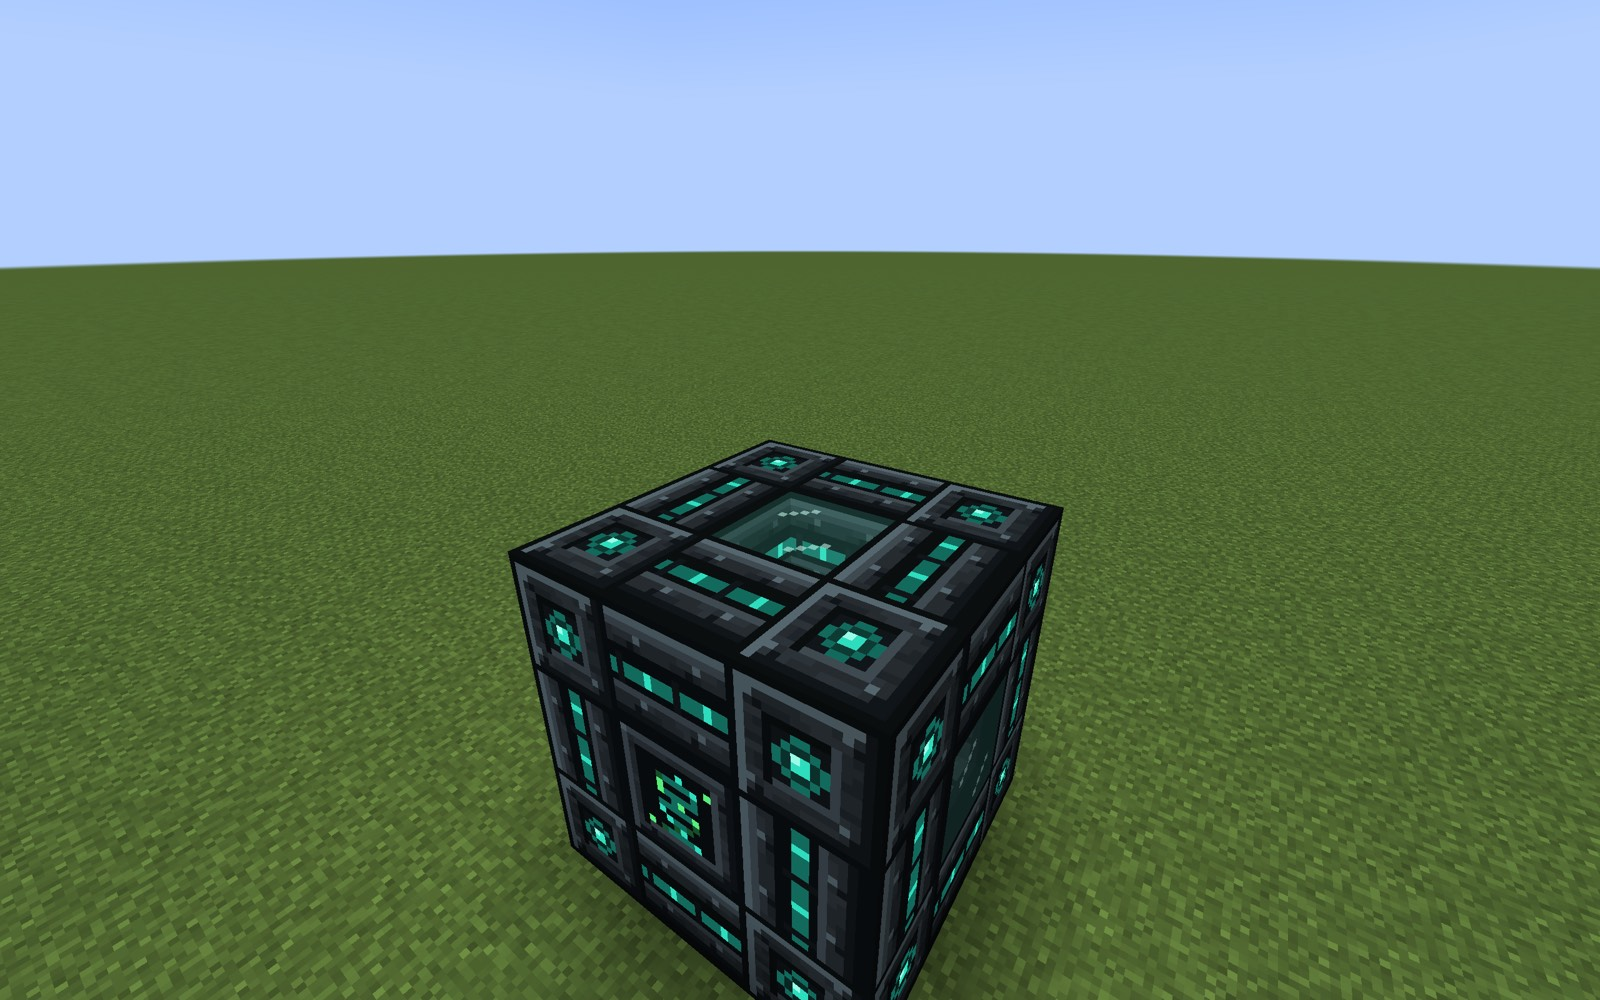
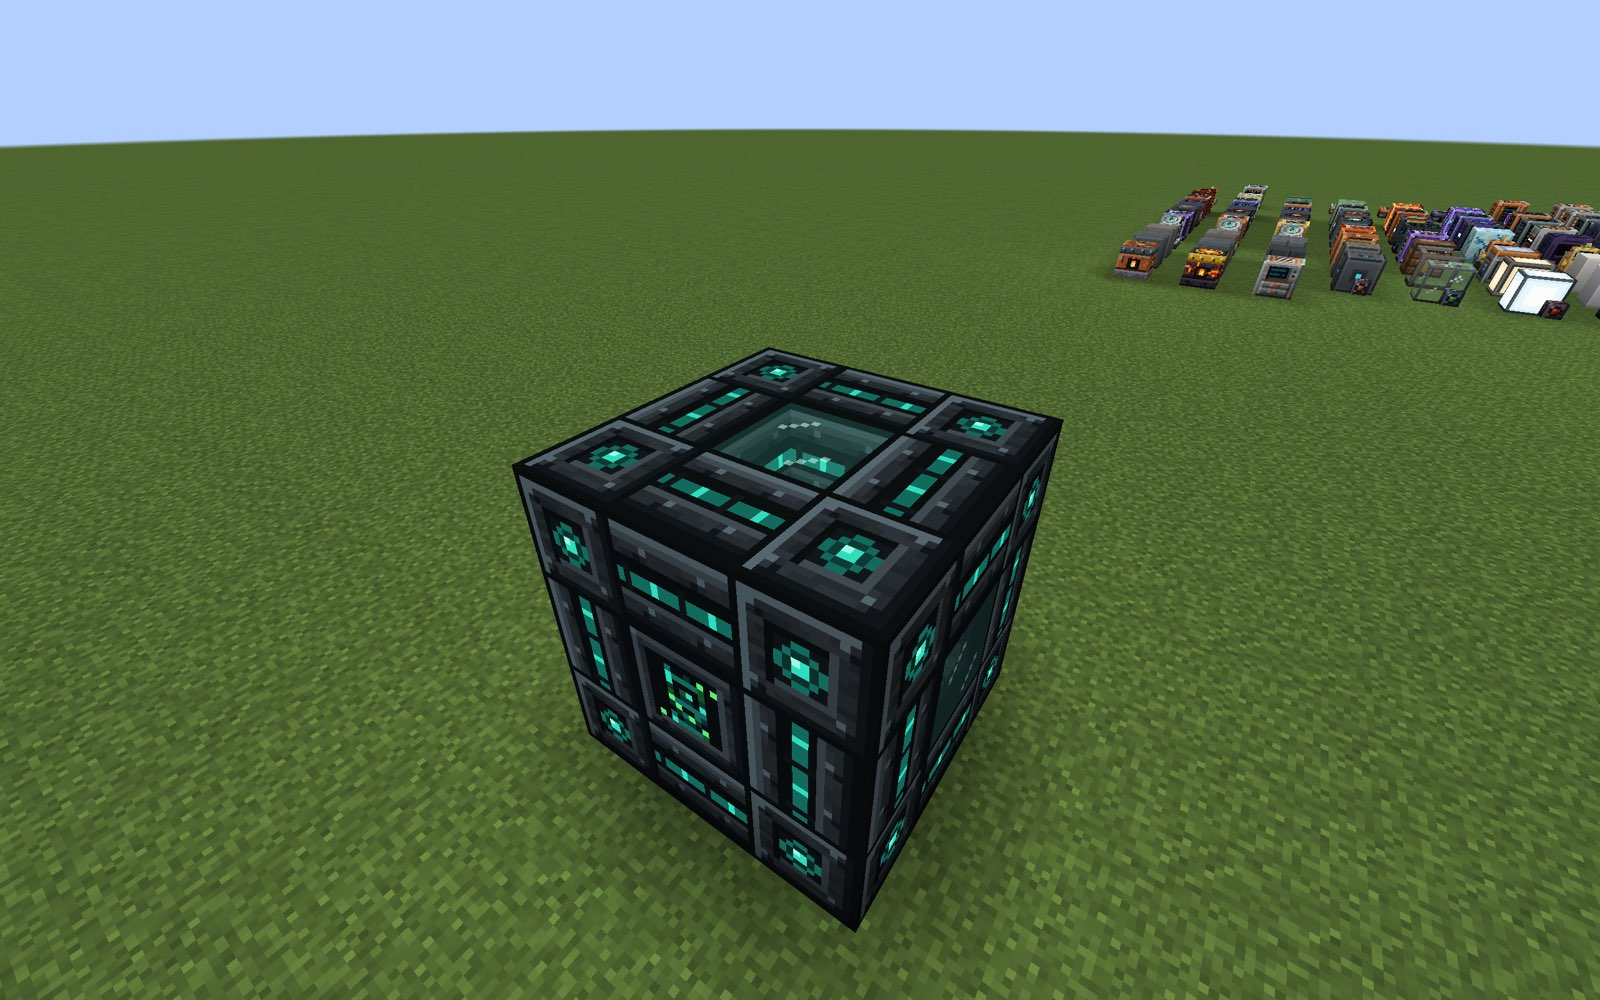
Play the harvested mob's death sound on Replicator cycles, add a mute toggle

diff --git a/src/main/java/com/arno/robotica/replicator/block/ReplicatorControllerBlockEntity.java b/src/main/java/com/arno/robotica/replicator/block/ReplicatorControllerBlockEntity.java
@@ -181,6 +181,8 @@ public class ReplicatorControllerBlockEntity extends SyncedBlockEntity implement
     @Nullable
     private UUID owner;
     private Mode mode = Mode.HARVEST;
+    /** Silences the hum, the cycle sounds and the mob's death sound (forming and breaking still sound). */
+    private boolean muted;
     private int progress;
     private int needed = 1;
     private int cycles;
@@ -264,6 +266,16 @@ public class ReplicatorControllerBlockEntity extends SyncedBlockEntity implement
         if (this.mode == mode) return;
         this.mode = mode;
         setChangedAndSync();
+    }
+
+    public boolean muted() {
+        return muted;
+    }
+
+    public void setMuted(boolean muted) {
+        if (this.muted == muted) return;
+        this.muted = muted;
+        setChanged();
     }
 
     public int progress() {
@@ -504,7 +516,7 @@ public class ReplicatorControllerBlockEntity extends SyncedBlockEntity implement
             setChangedAndSync();
         }
         sides.tick(level);
-        if (working && CoreSounds.due(level, pos, 80)) {
+        if (working && !muted && CoreSounds.due(level, pos, 80)) {
             CoreSounds.play(level, pos, CoreSounds.REPLICATOR_HUM, SoundSource.BLOCKS, 0.8F, 1.0F);
         }
     }
@@ -520,7 +532,7 @@ public class ReplicatorControllerBlockEntity extends SyncedBlockEntity implement
         if (mode == Mode.SPAWN) {
             Pause blocked = spawn(level, pos, state, type);
             if (blocked != Pause.NONE) return blocked;
-            cycleSound(level, pos, CoreSounds.REPLICATOR_SPAWN);
+            cycleSound(level, pos, CoreSounds.REPLICATOR_SPAWN, null);
         } else {
             Harvest.Result result = Harvest.roll(level, type, pos.relative(state.getValue(ReplicatorControllerBlock.FACING).getOpposite()),
                     owner, lootingLevel());
@@ -532,7 +544,7 @@ public class ReplicatorControllerBlockEntity extends SyncedBlockEntity implement
                 // A lowered cap stops new XP but keeps what is already stored.
                 if (ReplicatorConfig.harvestXp()) xpStored = (int) Math.max(xpStored, Math.min(ReplicatorConfig.maxXp(), (long) xpStored + result.xp()));
             }
-            cycleSound(level, pos, CoreSounds.REPLICATOR_CYCLE);
+            cycleSound(level, pos, CoreSounds.REPLICATOR_CYCLE, result == null ? null : result.deathSound());
         }
         cycles++;
         setChanged();
@@ -540,11 +552,19 @@ public class ReplicatorControllerBlockEntity extends SyncedBlockEntity implement
         return Pause.NONE;
     }
 
-    /** Cycle sound, at most once a second even when speed upgrades finish cycles faster. */
-    private void cycleSound(ServerLevel level, BlockPos pos, java.util.function.Supplier<net.minecraft.sounds.SoundEvent> sound) {
-        if (age - lastCycleSound < 20) return;
+    /**
+     * Cycle sound, with the harvested mob's death sound from the middle of the cube, at most once a second even when
+     * speed upgrades finish cycles faster.
+     */
+    private void cycleSound(ServerLevel level, BlockPos pos, java.util.function.Supplier<net.minecraft.sounds.SoundEvent> sound,
+                            @Nullable net.minecraft.sounds.SoundEvent death) {
+        if (muted || age - lastCycleSound < 20) return;
         lastCycleSound = age;
         CoreSounds.play(level, pos, sound, SoundSource.BLOCKS, 0.9F, 1.0F);
+        if (death != null) {
+            BlockPos center = ReplicatorStructure.center(pos, getBlockState().getValue(ReplicatorControllerBlock.FACING));
+            level.playSound(null, center, death, SoundSource.BLOCKS, 0.6F, 0.9F + level.random.nextFloat() * 0.2F);
+        }
     }
 
     /** Moves leftovers into the output. True when nothing is left. */
@@ -710,6 +730,7 @@ public class ReplicatorControllerBlockEntity extends SyncedBlockEntity implement
         tag.putInt("cycles", cycles);
         tag.putInt("xp", xpStored);
         tag.putInt("mode", mode.ordinal());
+        if (muted) tag.putBoolean("muted", true);
         tag.put("sides", sides.save());
         if (owner != null) tag.putUUID("owner", owner);
         if (lookBox != null) {
@@ -735,6 +756,7 @@ public class ReplicatorControllerBlockEntity extends SyncedBlockEntity implement
         if (tag.contains("vial")) activeType = boundType();
         if (tag.contains("xp")) xpStored = tag.getInt("xp");
         if (tag.contains("mode")) mode = Mode.byId(tag.getInt("mode"));
+        muted = tag.getBoolean("muted");
         if (tag.hasUUID("owner")) owner = tag.getUUID("owner");
         int[] look = tag.getIntArray("look");
         lookBox = look.length == 6 ? new BoundingBox(look[0], look[1], look[2], look[3], look[4], look[5]) : null;
@@ -793,6 +815,7 @@ public class ReplicatorControllerBlockEntity extends SyncedBlockEntity implement
         tag.putString("clientVial", type == null ? "" : BuiltInRegistries.ENTITY_TYPE.getKey(type).toString());
         tag.putInt("cycles", cycles);
         tag.putInt("mode", mode.ordinal());
+        if (muted) tag.putBoolean("muted", true);
     }
 
     /** Extract-only view for hoppers, pipes and storage networks: they can empty the output but never insert. */

diff --git a/src/main/java/com/arno/robotica/replicator/client/ReplicatorScreen.java b/src/main/java/com/arno/robotica/replicator/client/ReplicatorScreen.java
@@ -5,6 +5,7 @@ import com.arno.robotica.core.client.IconButton;
 import com.arno.robotica.core.client.MachineScreen;
 import com.arno.robotica.core.util.Fmt;
 import com.arno.robotica.replicator.ReplicatorModePayload;
+import com.arno.robotica.replicator.ReplicatorMutePayload;
 import com.arno.robotica.replicator.block.ReplicatorControllerBlockEntity;
 import com.arno.robotica.replicator.block.ReplicatorControllerBlockEntity.Mode;
 import com.arno.robotica.replicator.block.ReplicatorControllerBlockEntity.Pause;
@@ -22,7 +23,7 @@ import net.minecraft.world.item.Items;
 import net.neoforged.neoforge.network.PacketDistributor;
 
 /**
- * GUI of the Replicator Controller: energy bar, cycle progress, one short status word and a mode icon. Slots carry ghost icons;
+ * GUI of the Replicator Controller: energy bar, cycle progress, one short status word, a mode icon and a mute toggle. Slots carry ghost icons;
  * cycle time, speed, FE/t and looting are in tooltips. A row above the output claims the stored experience: up to a
  * target level (-/+, shift for 10) or all of it, through menu button clicks the server validates.
  */
@@ -31,6 +32,8 @@ public class ReplicatorScreen extends MachineScreen<ReplicatorMenu> {
     private static int targetLevel = 30;
 
     private IconButton modeButton;
+    private IconButton muteButton;
+    private Boolean shownMuted;
     private Button claimButton;
     private Button allButton;
     private int shownTarget = -1;
@@ -54,6 +57,10 @@ public class ReplicatorScreen extends MachineScreen<ReplicatorMenu> {
             PacketDistributor.sendToServer(new ReplicatorModePayload(menu.pos(), next.ordinal()));
         }));
         updateMode();
+        muteButton = addRenderableWidget(new IconButton(leftPos + 86, topPos + 56, 20, new ItemStack(Items.NOTE_BLOCK), true,
+                b -> PacketDistributor.sendToServer(new ReplicatorMutePayload(menu.pos(), !menu.muted()))));
+        shownMuted = null;
+        updateMute();
 
         int y = topPos + ReplicatorMenu.XP_ROW_Y;
         addRenderableWidget(new FitButton(leftPos + 62, y, 12, 12, Component.literal("-"), b -> changeTarget(-1),
@@ -98,10 +105,19 @@ public class ReplicatorScreen extends MachineScreen<ReplicatorMenu> {
                 .append(Component.literal("\n")).append(Component.translatable("gui.robotica.replicator.mode_tip").withStyle(ChatFormatting.GRAY)));
     }
 
+    private void updateMute() {
+        boolean muted = menu.muted();
+        if (shownMuted != null && shownMuted == muted) return;
+        shownMuted = muted;
+        muteButton.setOn(!muted);
+        muteButton.hint(Component.translatable(muted ? "gui.robotica.replicator.unmute_tip" : "gui.robotica.replicator.mute_tip"));
+    }
+
     @Override
     protected void containerTick() {
         super.containerTick();
         if (modeButton != null) updateMode();
+        if (muteButton != null) updateMute();
         if (claimButton != null) updateXp();
     }
 

diff --git a/src/main/java/com/arno/robotica/replicator/test/ReplicatorGameTests.java b/src/main/java/com/arno/robotica/replicator/test/ReplicatorGameTests.java
@@ -30,6 +30,8 @@ import net.minecraft.world.item.ItemStack;
 import net.minecraft.world.item.Items;
 import net.minecraft.world.level.GameType;
 import net.minecraft.world.level.block.Blocks;
+import net.minecraft.sounds.SoundEvents;
+import com.arno.robotica.replicator.logic.DeathSounds;
 import net.minecraft.world.level.block.state.BlockState;
 import net.minecraft.world.phys.AABB;
 import net.neoforged.neoforge.capabilities.Capabilities;
@@ -220,6 +222,26 @@ public class ReplicatorGameTests {
         BlockState state = helper.getBlockState(pos);
         helper.assertTrue(state.hasProperty(FramedPartBlock.FRAME) && state.getValue(FramedPartBlock.FRAME) == shape,
                 "frame at " + pos + " should be " + shape + ", got " + state);
+    }
+
+    /** A harvest knows the mob's death sound (cached per type); the mute toggle is saved with the controller. */
+    @GameTest(template = "empty")
+    public static void deathSoundAndMute(GameTestHelper helper) {
+        Zombie zombie = helper.spawnWithNoFreeWill(EntityType.ZOMBIE, 1, 1, 1);
+        helper.assertTrue(DeathSounds.of(zombie) == SoundEvents.ZOMBIE_DEATH, "a zombie dies like a zombie");
+        helper.assertTrue(DeathSounds.of(zombie) == DeathSounds.of(zombie), "cached");
+        Harvest.Result roll = Harvest.roll(helper.getLevel(), EntityType.SKELETON, helper.absolutePos(CENTER), null, 0);
+        helper.assertTrue(roll != null && roll.deathSound() == SoundEvents.SKELETON_DEATH, "a harvest carries the death sound");
+
+        buildShell(helper, true);
+        ReplicatorControllerBlockEntity be = (ReplicatorControllerBlockEntity) helper.getBlockEntity(CONTROLLER);
+        helper.assertFalse(be.muted(), "sounds on by default");
+        be.setMuted(true);
+        net.minecraft.nbt.CompoundTag tag = be.saveWithoutMetadata(helper.getLevel().registryAccess());
+        be.setMuted(false);
+        be.loadWithComponents(tag, helper.getLevel().registryAccess());
+        helper.assertTrue(be.muted(), "mute is saved");
+        helper.succeed();
     }
 
     /** The glow outlasts a short stall (no flicker on a weak supply) and goes out a second after the work stops. */

diff --git a/src/main/java/com/arno/robotica/replicator/ReplicatorMutePayload.java b/src/main/java/com/arno/robotica/replicator/ReplicatorMutePayload.java
@@ -1,0 +1,40 @@
+package com.arno.robotica.replicator;
+
+import com.arno.robotica.Robotica;
+import com.arno.robotica.replicator.block.ReplicatorControllerBlockEntity;
+import com.arno.robotica.replicator.menu.ReplicatorMenu;
+import net.minecraft.core.BlockPos;
+import net.minecraft.network.RegistryFriendlyByteBuf;
+import net.minecraft.network.codec.ByteBufCodecs;
+import net.minecraft.network.codec.StreamCodec;
+import net.minecraft.network.protocol.common.custom.CustomPacketPayload;
+import net.minecraft.server.level.ServerPlayer;
+import net.neoforged.neoforge.network.event.RegisterPayloadHandlersEvent;
+import net.neoforged.neoforge.network.handling.IPayloadContext;
+
+/**
+ * Client to server: mutes or unmutes the working sounds of the controller whose GUI the player has open. Accepted only
+ * while the player's open menu belongs to that position and is still valid (in reach).
+ */
+public record ReplicatorMutePayload(BlockPos pos, boolean muted) implements CustomPacketPayload {
+    public static final Type<ReplicatorMutePayload> TYPE = new Type<>(Robotica.id("replicator_mute"));
+    public static final StreamCodec<RegistryFriendlyByteBuf, ReplicatorMutePayload> CODEC = StreamCodec.composite(
+            BlockPos.STREAM_CODEC, ReplicatorMutePayload::pos,
+            ByteBufCodecs.BOOL, ReplicatorMutePayload::muted,
+            ReplicatorMutePayload::new);
+
+    @Override
+    public Type<? extends CustomPacketPayload> type() {
+        return TYPE;
+    }
+
+    public static void register(RegisterPayloadHandlersEvent event) {
+        event.registrar("1").playToServer(TYPE, CODEC, ReplicatorMutePayload::handle);
+    }
+
+    private static void handle(ReplicatorMutePayload payload, IPayloadContext context) {
+        if (!(context.player() instanceof ServerPlayer player)) return;
+        if (!(player.containerMenu instanceof ReplicatorMenu menu) || !menu.pos().equals(payload.pos()) || !menu.stillValid(player)) return;
+        if (player.level().getBlockEntity(payload.pos()) instanceof ReplicatorControllerBlockEntity be) be.setMuted(payload.muted());
+    }
+}

diff --git a/src/main/java/com/arno/robotica/replicator/logic/DeathSounds.java b/src/main/java/com/arno/robotica/replicator/logic/DeathSounds.java
@@ -1,0 +1,46 @@
+package com.arno.robotica.replicator.logic;
+
+import com.arno.robotica.Robotica;
+import net.minecraft.sounds.SoundEvent;
+import net.minecraft.world.entity.EntityType;
+import net.minecraft.world.entity.LivingEntity;
+import net.neoforged.fml.util.ObfuscationReflectionHelper;
+import org.jetbrains.annotations.Nullable;
+
+import java.lang.reflect.Method;
+import java.util.Map;
+import java.util.Optional;
+import java.util.concurrent.ConcurrentHashMap;
+
+/**
+ * The death sound of each mob type the Replicator harvests, read once from the mob it rolls the loot with
+ * ({@code getDeathSound} is protected, so through reflection) and kept per type.
+ */
+public final class DeathSounds {
+    private DeathSounds() {}
+
+    private static final Map<EntityType<?>, Optional<SoundEvent>> CACHE = new ConcurrentHashMap<>();
+    @Nullable
+    private static Method getDeathSound;
+    private static boolean looked;
+
+    /** The death sound of {@code mob}'s type, or null when it has none. */
+    @Nullable
+    public static SoundEvent of(LivingEntity mob) {
+        return CACHE.computeIfAbsent(mob.getType(), t -> Optional.ofNullable(read(mob))).orElse(null);
+    }
+
+    @Nullable
+    private static SoundEvent read(LivingEntity mob) {
+        try {
+            if (!looked) {
+                looked = true;
+                getDeathSound = ObfuscationReflectionHelper.findMethod(LivingEntity.class, "getDeathSound");
+            }
+            return getDeathSound == null ? null : (SoundEvent) getDeathSound.invoke(mob);
+        } catch (ReflectiveOperationException | RuntimeException e) {
+            Robotica.LOGGER.debug("Replicator could not read the death sound of {}", mob.getType(), e);
+            return null;
+        }
+    }
+}

diff --git a/src/main/java/com/arno/robotica/replicator/menu/ReplicatorMenu.java b/src/main/java/com/arno/robotica/replicator/menu/ReplicatorMenu.java
@@ -78,9 +78,9 @@ public class ReplicatorMenu extends MachineMenu {
         capacityIndex = track(be == null ? () -> 0 : () -> be.energy.getMaxEnergyStored());
         progressIndex = track(be == null ? () -> 0 : be::progress);
         neededIndex = track(be == null ? () -> 0 : be::needed);
-        // bit 0 formed, bit 1 mode, bits 2-4 structure status, bits 5-8 pause reason, bits 9-10 looting level
+        // bit 0 formed, bit 1 mode, bits 2-4 structure status, bits 5-8 pause reason, bits 9-10 looting level, bit 11 muted
         statusIndex = track(be == null ? () -> 0 : () -> (be.isFormed() ? 1 : 0) | (be.mode().ordinal() << 1)
-                | (be.status().ordinal() << 2) | (be.pause().ordinal() << 5) | (be.lootingLevel() << 9));
+                | (be.status().ordinal() << 2) | (be.pause().ordinal() << 5) | (be.lootingLevel() << 9) | (be.muted() ? 1 << 11 : 0));
         speedIndex = track(be == null ? () -> 0 : be::speedMultiplier);
         costIndex = track(be == null ? () -> 0 : be::energyPerTick);
         xpIndex = track(be == null ? () -> 0 : be::xpStored);
@@ -128,6 +128,10 @@ public class ReplicatorMenu extends MachineMenu {
 
     public int looting() {
         return (synced(statusIndex) >> 9) & 3;
+    }
+
+    public boolean muted() {
+        return (synced(statusIndex) >> 11 & 1) != 0;
     }
 
     public int speedMultiplier() {

diff --git a/src/main/java/com/arno/robotica/replicator/logic/Harvest.java b/src/main/java/com/arno/robotica/replicator/logic/Harvest.java
@@ -37,7 +37,8 @@ public final class Harvest {
     /** Used when a controller has no owner (placed by a dispenser or a command). */
     private static final UUID NO_OWNER = UUID.fromString("5b0c3a64-3b1a-4f5e-9c4e-0f6f0d0c7e11");
 
-    public record Result(List<ItemStack> drops, int xp) {}
+    /** @param deathSound the mob's death sound, null when it has none */
+    public record Result(List<ItemStack> drops, int xp, @Nullable net.minecraft.sounds.SoundEvent deathSound) {}
 
     /**
      * @param looting Looting level 0-3 (the fortune card of the controller). It goes onto the fake player's held
@@ -82,9 +83,9 @@ public final class Harvest {
                     if (!stack.isEmpty() && !Essence.isOutputBlacklisted(stack)) drops.add(stack);
                 }
                 int xp = Math.max(0, living.getExperienceReward(level, fake));
-                return new Result(drops, xp);
+                return new Result(drops, xp, DeathSounds.of(living));
             }
-            return new Result(drops, 0);
+            return new Result(drops, 0, null);
         } catch (RuntimeException e) {
             // A modded mob with a broken constructor or loot condition must not crash the server.
             Robotica.LOGGER.warn("Replicator could not roll the loot of {}", type, e);

diff --git a/src/main/java/com/arno/robotica/replicator/ReplicatorModule.java b/src/main/java/com/arno/robotica/replicator/ReplicatorModule.java
@@ -19,6 +19,7 @@ public final class ReplicatorModule {
         container.registerConfig(ModConfig.Type.SERVER, ReplicatorConfig.SPEC, "robotica-replicator-server.toml");
         modBus.addListener(RegisterCapabilitiesEvent.class, ReplicatorModule::registerCapabilities);
         modBus.addListener(RegisterPayloadHandlersEvent.class, ReplicatorModePayload::register);
+        modBus.addListener(RegisterPayloadHandlersEvent.class, ReplicatorMutePayload::register);
     }
 
     private static void registerCapabilities(RegisterCapabilitiesEvent event) {

diff --git a/src/main/java/com/arno/robotica/codex/client/dev/Showcase.java b/src/main/java/com/arno/robotica/codex/client/dev/Showcase.java
@@ -405,7 +405,7 @@ public final class Showcase {
             }
         }));
         if (wants("08_replicator")) {
-            camera(3.9, Y + 3.5, 45.0, 145, 24);
+            camera(3.9, Y + 3.6, 45.0, 145, 33);
             step(100, () -> {});
             shot("08_replicator");
         }
